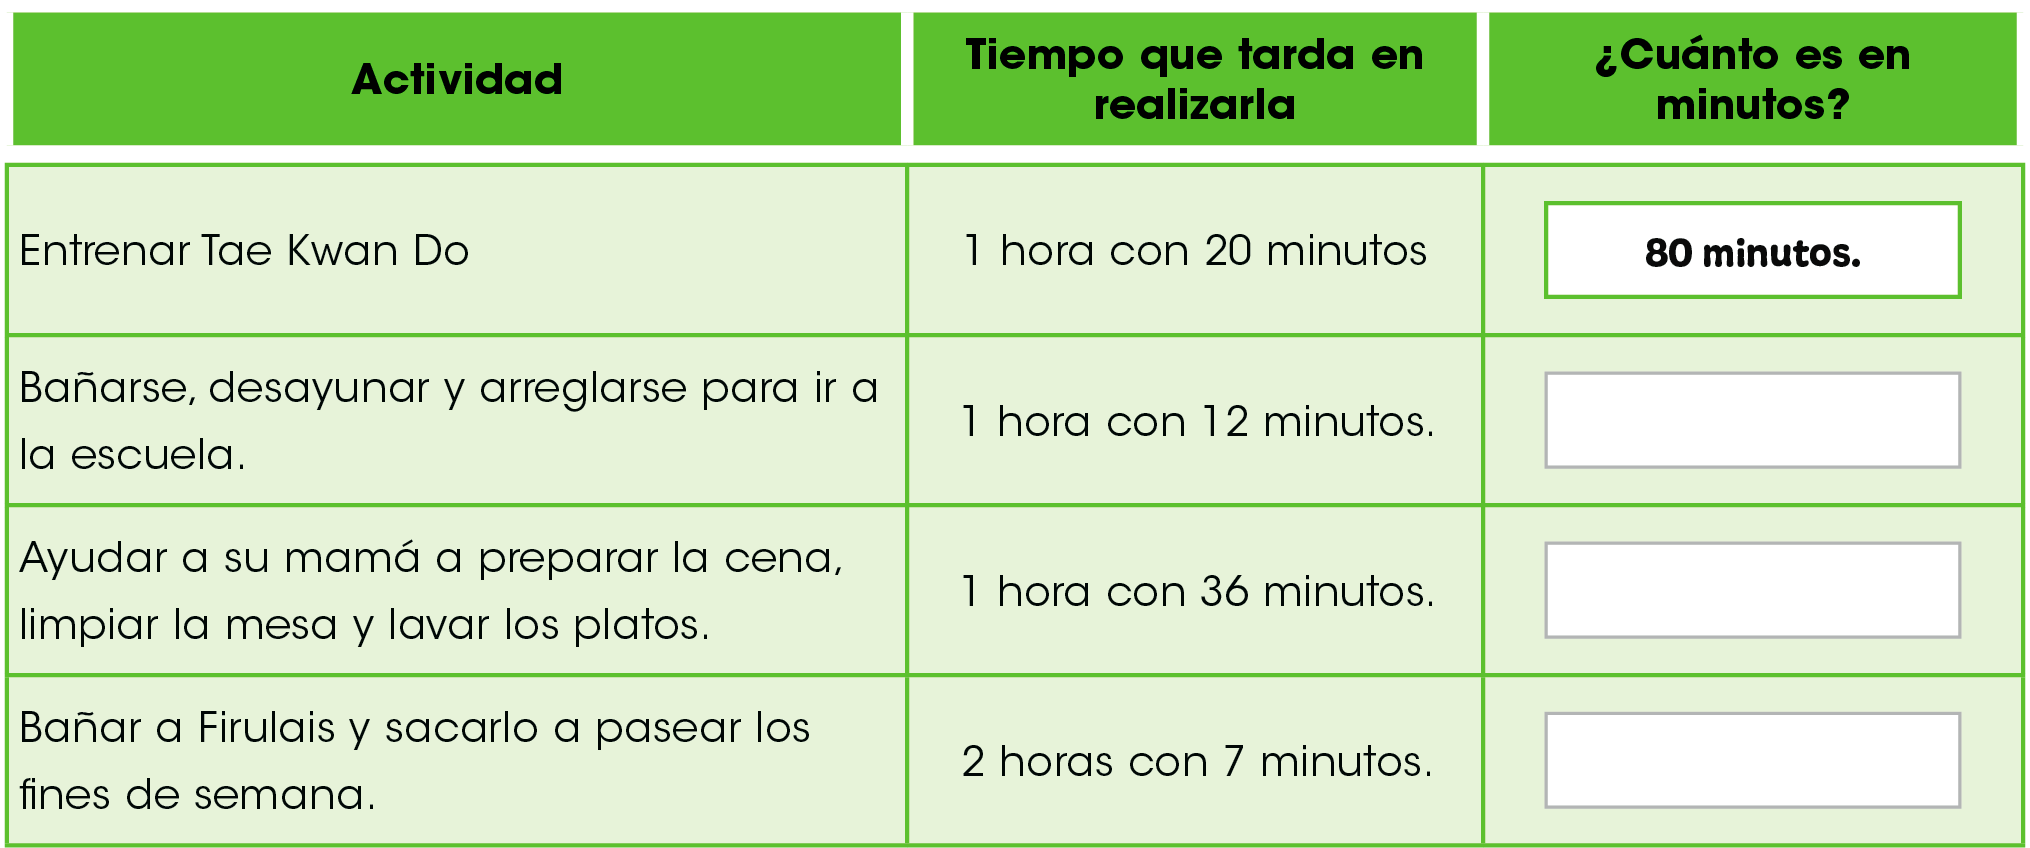
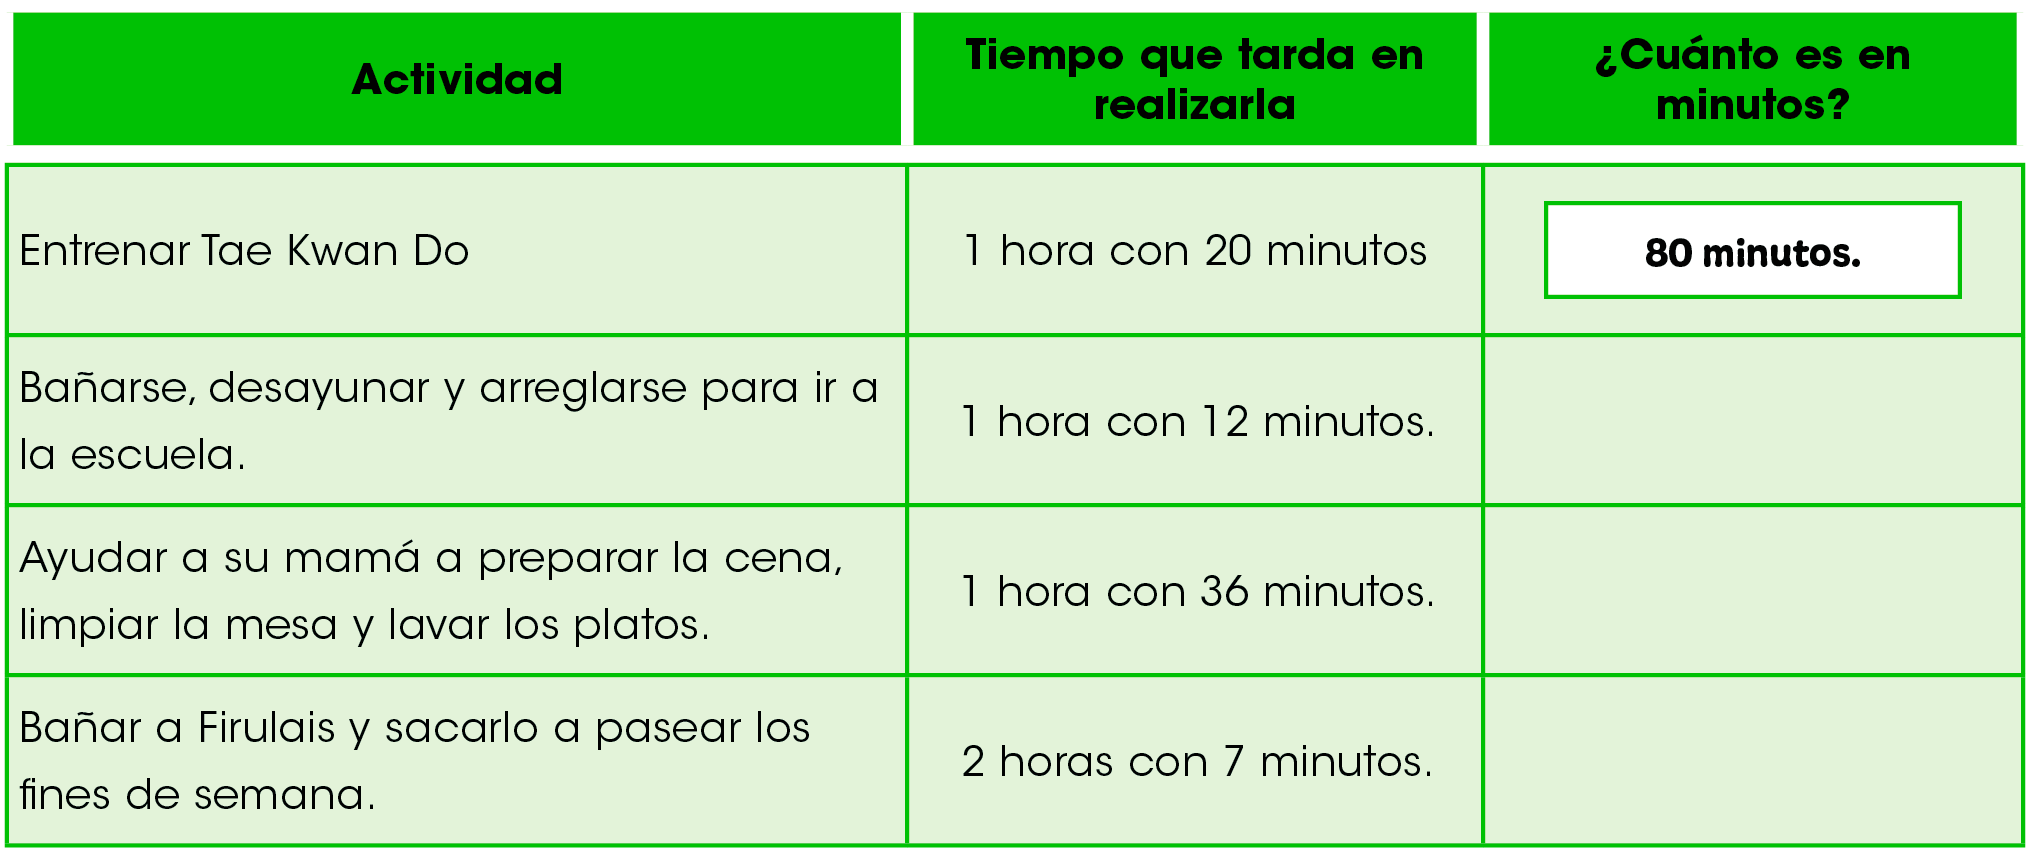
ODA RAPMA3T1 49

Changed region(s): [[0.0, 0.0, 1.0, 1.0]]

diff --git a/basicas/RAPMA3T1/49/index.html b/basicas/RAPMA3T1/49/index.html
@@ -1,0 +1,17 @@
+<html><head><meta charset="UTF-8"><meta name="viewport" content="width=device-width, initial-scale=1.0"><title>Horas y horas</title></head><body><div class="container mx-auto my-5" id="app"><oda-titulo title="Horas y horas" subtitle=""></oda-titulo><div><oda-instruccion class="">Transforma el tiempo de horas a minutos. Observa el ejemplo. Después contesta como se
+indica.</oda-instruccion><layout-grid columns="3" columns-md="3" gap="2" class=" p-2 bg-isok !rounded-none"><util-text design="0" class=" font-bold text-center text-md text-white">Actividad</util-text><util-text design="0" class=" font-bold text-center text-md text-white">Tiempo que tarda en
+realizarla</util-text><util-text design="0" class=" font-bold text-center text-md text-white">¿Cuánto es en
+minutos?</util-text></layout-grid><layout-grid columns="3" columns-md="3" gap="5" class=" p-2 items-center bg-pastel3 !rounded-none"><div class="">Entrenar Tae Kwan Do</div><div class="">1 hora con 20 minutos</div><div class=" font-bold text-center">80 minutos
+</div></layout-grid><layout-grid columns="3" columns-md="3" gap="5" class=" p-2 items-center bg-pastel3 !rounded-none"><div class="">Bañarse, desayunar y arreglarse para ir a
+la escuela.</div><div class="">1 hora con 12 minutos</div><module-input answer="72 minutos" placeholder="" class=""></module-input></layout-grid><layout-grid columns="3" columns-md="3" gap="5" class=" p-2 items-center bg-pastel3 !rounded-none"><div class="">Ayudar a su mamá a preparar la cena,
+limpiar la mesa y lavar los platos.</div><div class="">1 hora con 36 minutos</div><module-input answer="96 minutos" placeholder="" class=""></module-input></layout-grid><layout-grid columns="3" columns-md="3" gap="5" class=" p-2 items-center bg-pastel3 !rounded-none"><div class="">Bañar a Firulais y sacarlo a pasear los
+fines de semana.</div><div class="">2 horas con 7 minutos</div><module-input answer="127 minutos" placeholder="" class=""></module-input></layout-grid><layout-grid columns="1" columns-md="2" gap="5" class=" p-2 mt-10 items-center !rounded-none"><div class=" w-full">a) ¿Cuántos minutos son en total si
+sumamos el tiempo que Fernando
+entrena Tae Kwan Do y lo que dura en
+bañarse, desayunar y arreglarse para
+la escuela?</div><module-input answer="152 minutos" placeholder="" class=""></module-input></layout-grid><layout-grid columns="1" columns-md="2" gap="5" class=" p-2 mt-10 items-center !rounded-none"><div class=" w-full">b) ¿Cuántos minutos son en total si
+sumamos el tiempo que Fernando dura
+en bañar y sacar a su perrito Firulais,
+bañarse, desayunar y arreglarse?
+bañarse, desayunar y arreglarse para
+la escuela?</div><module-input answer="199 minutos" placeholder="" class=""></module-input></layout-grid></div><oda-finalizar></oda-finalizar></div><script src="https://cdn.jsdelivr.net/gh/bluemx/blueodasv2@v1.0.15/basicas/assets/loader.min.js" data-loader-version="v1.0.15" type="text/javascript"></script></body></html>
